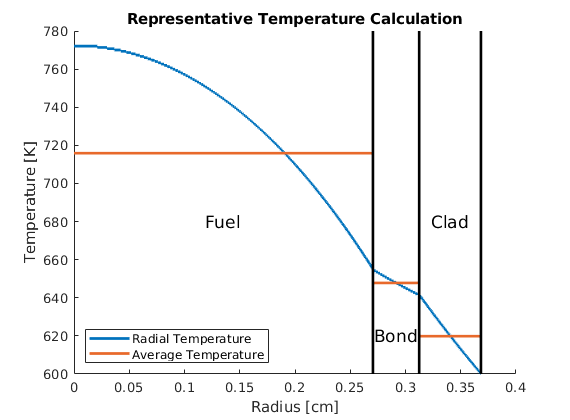
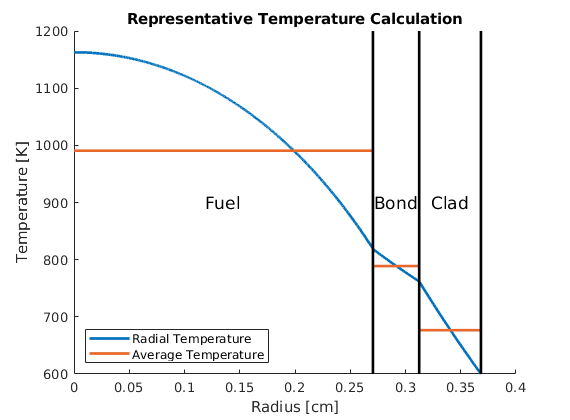
updating plots with real data

diff --git a/ch04_thermalHydraulics/figs/matlab/radial_temp_plot.m b/ch04_thermalHydraulics/figs/matlab/radial_temp_plot.m
@@ -5,9 +5,9 @@ fname = '~/dev/thesis/thermal/radial.csv';
 rfuel = 0.270510;
 rbond = 0.312420;
 rclad = 0.368300;
-Tfuel_ave = 0.715872E+03;
-Tbond_ave = 0.647786E+03;
-Tclad_ave = 0.619839E+03;
+Tfuel_ave = 0.990696E+03;
+Tbond_ave = 0.788836E+03;
+Tclad_ave = 0.676579E+03;
 
 LW = 2;
 FS = 13;
@@ -60,9 +60,9 @@ yl = ylim();
 plot([rfuel,rfuel],yl,'k','HandleVisibility','off','LineWidth',LW)
 plot([rbond,rbond],yl,'k','HandleVisibility','off','LineWidth',LW)
 plot([rclad,rclad],yl,'k','HandleVisibility','off','LineWidth',LW)
-text(0.5*rfuel,680,'Fuel','HorizontalAlignment','Center','FontSize',FS)
-text(0.5*(rfuel+rbond),620,'Bond','HorizontalAlignment','Center','FontSize',FS)
-text(0.5*(rbond+rclad),680,'Clad','HorizontalAlignment','Center','FontSize',FS)
+text(0.5*rfuel,900,'Fuel','HorizontalAlignment','Center','FontSize',FS)
+text(0.5*(rfuel+rbond),900,'Bond','HorizontalAlignment','Center','FontSize',FS)
+text(0.5*(rbond+rclad),900,'Clad','HorizontalAlignment','Center','FontSize',FS)
 
 ylim(yl);
 title('Representative Temperature Calculation')

diff --git a/ch04_thermalHydraulics/figs/matlab/axial_temp_plot.m b/ch04_thermalHydraulics/figs/matlab/axial_temp_plot.m
@@ -5,6 +5,7 @@ fname = '~/dev/thesis/sfr/fort.999';
 
 LW = 2;  % line width
 FS = 13; % font size
+descriptor = '-';
 
 data = csvread(fname);
 z = data(:,1);
@@ -16,13 +17,13 @@ tfuel = data(:,6);
 
 figure
 hold on
-h = plot(tcool,z,'-','LineWidth',LW);
+h = plot(tcool,z,descriptor,'LineWidth',LW);
 set(h, 'MarkerFaceColor', get(h,'Color'));
-h = plot(tclad,z,'-','LineWidth',LW);
+h = plot(tclad,z,descriptor,'LineWidth',LW);
 set(h, 'MarkerFaceColor', get(h,'Color'));
-h = plot(tbond,z,'-','LineWidth',LW);
+h = plot(tbond,z,descriptor,'LineWidth',LW);
 set(h, 'MarkerFaceColor', get(h,'Color'));
-h = plot(tfuel,z,'-','LineWidth',LW);
+h = plot(tfuel,z,descriptor,'LineWidth',LW);
 set(h, 'MarkerFaceColor', get(h,'Color'));
 hold off
 legend_labels = {'T_{cool}','T_{clad}','T_{bond}','T_{fuel}'};

diff --git a/ch04_thermalHydraulics/figs/matlab/keff_converge_plot.m b/ch04_thermalHydraulics/figs/matlab/keff_converge_plot.m
@@ -1,0 +1,18 @@
+clear
+close all
+
+% keff convergence
+% this is actually interesting for t/h updates
+
+fname = '~/dev/thesis/sfr/diffusion_sfr.out';
+data = csvread(fname,1,0,[1 0 70 2]);
+
+iter = data(:,1);
+keff = data(:,2);
+inner = data(:,3);
+
+figure
+plot(iter,keff,'LineWidth',3)
+xlabel('Iteration')
+ylabel('k_{eff}')
+title('Convergence with Temperature Update')
